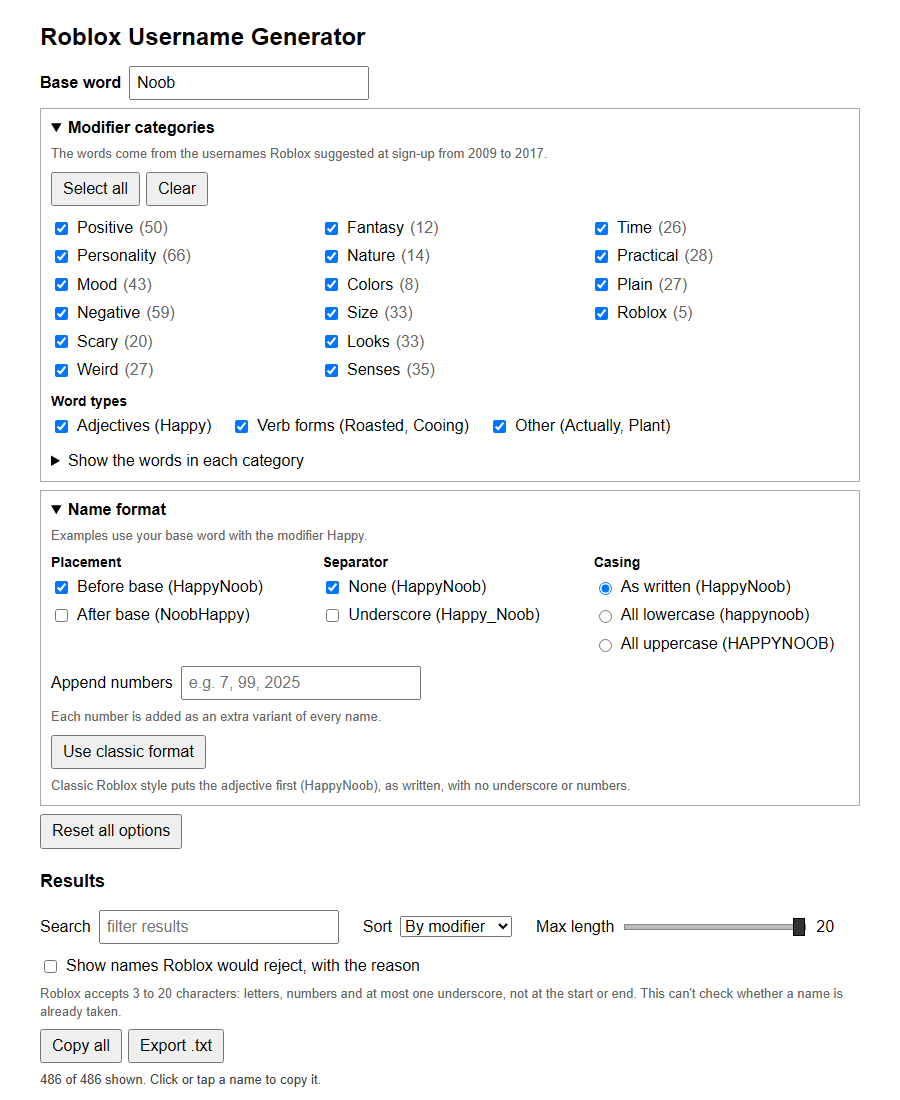
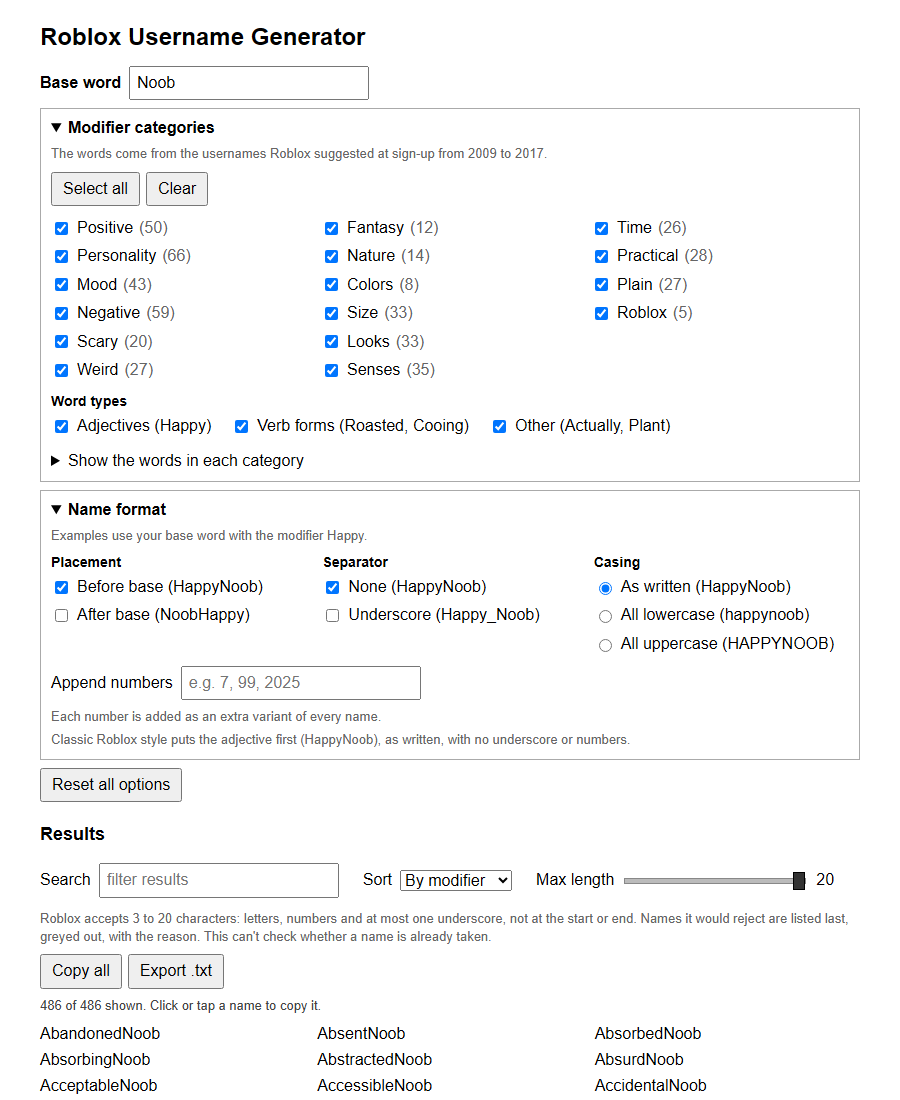
Show rejected names by default and hide idle controls
Rejected names are now listed after the accepted ones, greyed out
with the reason. The control to hide them appears only when there are
some, and states how many. The classic-format button appears only
after a format option has been changed.

Changed region(s): [[0.0311, 0.6491, 0.9333, 1.0], [0.9022, 0.8964, 0.9333, 0.9273]]

diff --git a/index.html b/index.html
@@ -30,6 +30,10 @@
     margin: 24px 0;
   }
 
+  [hidden] {
+    display: none !important;
+  }
+
   input, select, button {
     font: inherit;
   }
@@ -308,10 +312,10 @@
     </div>
     <label class="field">Append numbers <input type="text" id="numbers" placeholder="e.g. 7, 99, 2025" inputmode="decimal"></label>
     <p class="hint">Each number is added as an extra variant of every name.</p>
-    <div class="button-row">
-      <button type="button" id="classicFormat">Use classic format</button>
-    </div>
     <p class="hint">Classic Roblox style puts the adjective first (<span data-example="prefix"></span>), as written, with no underscore or numbers.</p>
+    <div class="button-row" id="classicFormatRow" hidden>
+      <button type="button" id="classicFormat">Back to classic format</button>
+    </div>
   </details>
 
   <div class="button-row">
@@ -333,8 +337,8 @@
     </label>
     <label class="field">Max length <input type="range" id="maxLength" min="3" max="20" value="20"> <output id="maxLengthValue"></output></label>
   </div>
-  <label class="check"><input type="checkbox" id="showRejected"> Show names Roblox would reject, with the reason</label>
-  <p class="hint">Roblox accepts 3 to 20 characters: letters, numbers and at most one underscore, not at the start or end. This can't check whether a name is already taken.</p>
+  <label class="check" id="hideRejectedRow" hidden><input type="checkbox" id="hideRejected"> <span id="hideRejectedLabel"></span></label>
+  <p class="hint">Roblox accepts 3 to 20 characters: letters, numbers and at most one underscore, not at the start or end. Names it would reject are listed last, greyed out, with the reason. This can't check whether a name is already taken.</p>
 
   <div class="button-row">
     <button type="button" id="copyAll">Copy all</button>
@@ -421,7 +425,10 @@ const searchInput = byId('search');
 const sortSelect = byId('sort');
 const maxLengthInput = byId('maxLength');
 const maxLengthValue = byId('maxLengthValue');
-const showRejectedInput = byId('showRejected');
+const hideRejectedInput = byId('hideRejected');
+const hideRejectedRow = byId('hideRejectedRow');
+const hideRejectedLabel = byId('hideRejectedLabel');
+const classicFormatRow = byId('classicFormatRow');
 const resultCount = byId('resultCount');
 const rejectedSummary = byId('rejectedSummary');
 const formatSection = byId('formatSection');
@@ -551,13 +558,23 @@ function renderFormatExamples() {
   }
 }
 
+function isClassicFormat() {
+  return [...formatSection.querySelectorAll('input')].every(input =>
+    input.checked === input.defaultChecked && input.value === input.defaultValue);
+}
+
 function refresh() {
   maxLengthValue.textContent = maxLengthInput.value;
   renderFormatExamples();
+  classicFormatRow.hidden = isClassicFormat();
   const candidates = filterAndSort(generateNames());
-  const showRejected = showRejectedInput.checked;
-  matches = showRejected ? candidates : candidates.filter(entry => !isRejected(entry));
-  rejectedSummary.textContent = showRejected ? '' : summarizeRejected(candidates.filter(isRejected));
+  const accepted = candidates.filter(entry => !isRejected(entry));
+  const rejected = candidates.filter(isRejected);
+  const hideRejected = hideRejectedInput.checked;
+  matches = hideRejected ? accepted : [...accepted, ...rejected];
+  hideRejectedRow.hidden = rejected.length === 0;
+  hideRejectedLabel.textContent = `Hide the ${rejected.length} ${rejected.length === 1 ? 'name' : 'names'} Roblox would reject`;
+  rejectedSummary.textContent = hideRejected ? summarizeRejected(rejected) : '';
   visibleLimit = PAGE_SIZE;
   renderResults();
 }

diff --git a/README.md b/README.md
@@ -15,7 +15,7 @@ Or download `index.html` and open it in a browser. It is one file with no build 
 ## What it does
 
 - Combines your word with 486 adjectives, grouped into 16 categories you can switch on and off.
-- Hides the names Roblox would reject, and shows the reason for each one if you ask.
+- Greys out the names Roblox would reject and shows the reason beside each one. You can hide them.
 - Can put the adjective after the word, add an underscore, change the case, or add numbers.
 - Lets you search, sort and shuffle the names, and set a maximum length.
 - Copies a name when you click or tap it. You can also copy or save the whole list.
